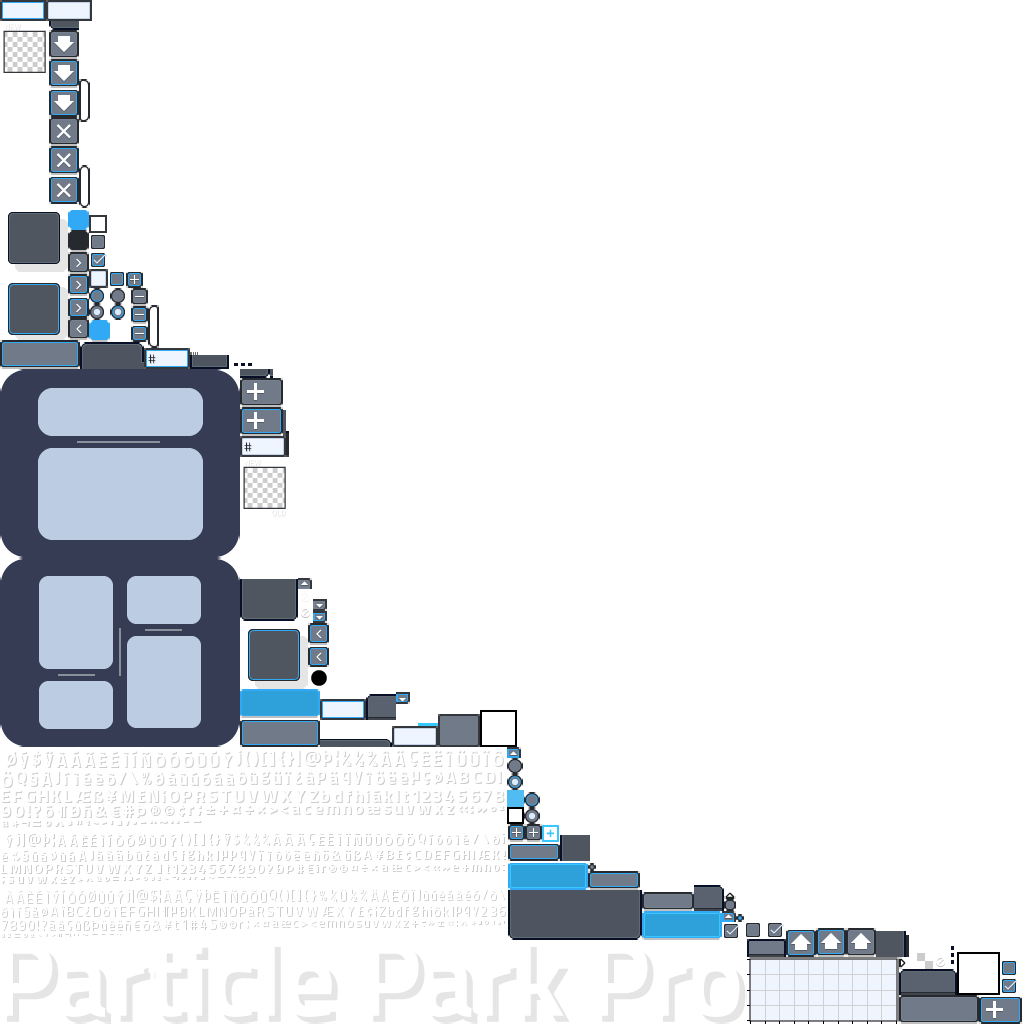
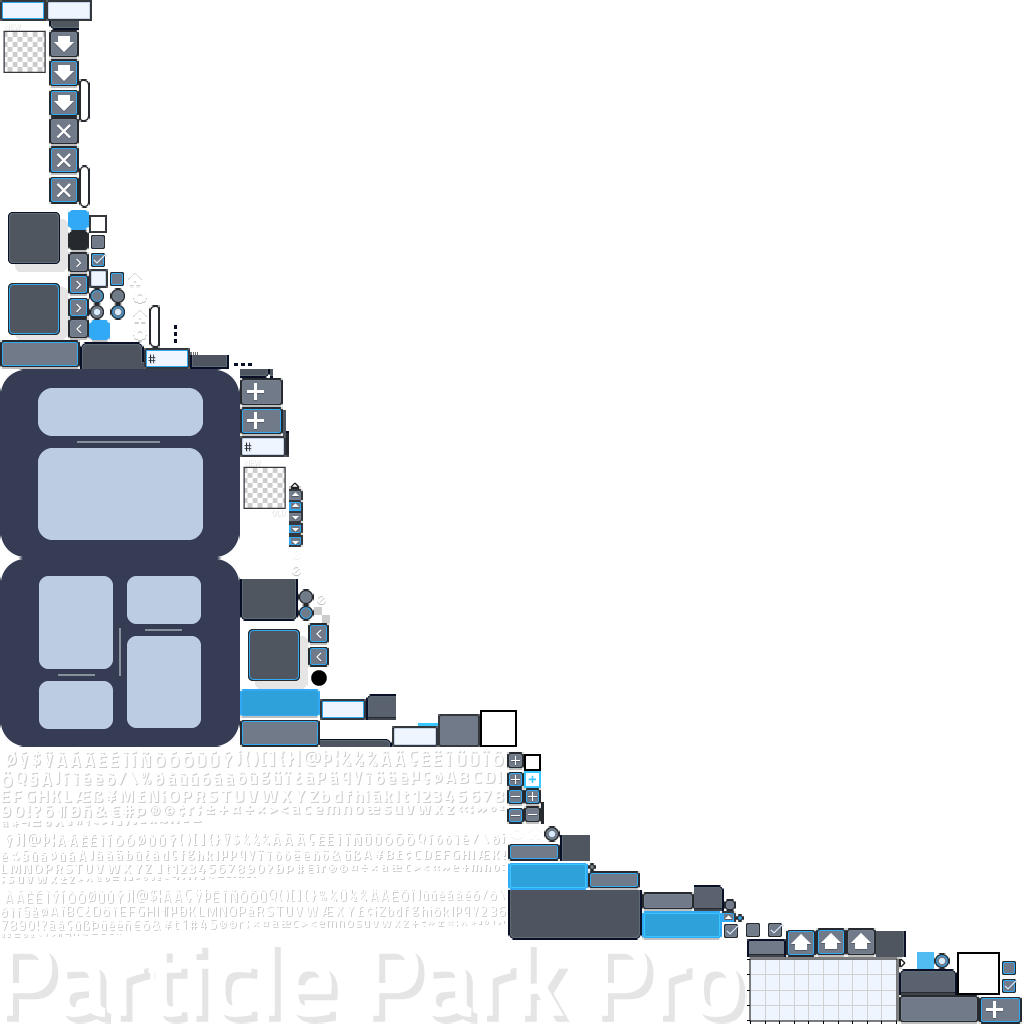
Added more placeholder widgets.

diff --git a/core/src/main/java/com/ray3k/particleparkpro/tables/ClassicTable.java b/core/src/main/java/com/ray3k/particleparkpro/tables/ClassicTable.java
@@ -1,5 +1,6 @@
 package com.ray3k.particleparkpro.tables;
 
+import com.badlogic.gdx.scenes.scene2d.ui.Button;
 import com.badlogic.gdx.scenes.scene2d.ui.Label;
 import com.badlogic.gdx.scenes.scene2d.ui.SplitPane;
 import com.badlogic.gdx.scenes.scene2d.ui.Table;
@@ -9,8 +10,7 @@ import com.ray3k.particleparkpro.widgets.panels.EffectEmittersPanel;
 import com.ray3k.particleparkpro.widgets.panels.EmitterPropertiesPanel;
 import com.ray3k.particleparkpro.widgets.panels.PreviewPanel;
 
-import static com.ray3k.particleparkpro.Core.skin;
-import static com.ray3k.particleparkpro.Core.version;
+import static com.ray3k.particleparkpro.Core.*;
 
 public class ClassicTable extends Table {
     public ClassicTable() {
@@ -33,7 +33,18 @@ public class ClassicTable extends Table {
         horizontalSplitPane.addListener(new ResizeArrowListener(false));
 
         row();
+        var table = new Table();
+        add(table).growX().padTop(5);
+
         var label = new Label(version, skin);
-        add(label).expandX().left().padTop(5);
+        table.add(label);
+
+        var button = new Button(skin, "home");
+        table.add(button).expandX().right();
+        addHandListener(button);
+
+        button = new Button(skin, "settings");
+        table.add(button);
+        addHandListener(button);
     }
 }

diff --git a/core/src/main/java/com/ray3k/particleparkpro/widgets/panels/EmitterPropertiesPanel.java b/core/src/main/java/com/ray3k/particleparkpro/widgets/panels/EmitterPropertiesPanel.java
@@ -21,6 +21,7 @@ public class EmitterPropertiesPanel extends Panel {
         var scrollPane = new ScrollPane(scrollTable, skin);
         scrollPane.setFlickScroll(false);
         bodyTable.add(scrollPane).grow();
+        addScrollFocusListener(scrollPane);
 
         var panel = new Panel();
         scrollTable.add(panel).growX();
@@ -181,13 +182,26 @@ public class EmitterPropertiesPanel extends Panel {
         table.add(button);
         addHandListener(button);
 
-
         scrollTable.row();
         panel = new Panel();
         scrollTable.add(panel).growX();
 
+        panel.tabTable.padRight(4);
+
         panel.tabTable.left();
         label = new Label("Tint", skin, "header");
-        panel.tabTable.add(label);
+        panel.tabTable.add(label).spaceRight(3);
+
+        button = new Button(skin, "close");
+        panel.tabTable.add(button);
+        addHandListener(button);
+
+        image = new Image(skin, "colorbar-bg-10");
+        panel.bodyTable.add(image).growX();
+
+        bodyTable.row();
+        textButton = new TextButton("Add Property", skin, "add");
+        bodyTable.add(textButton).right();
+        addHandListener(textButton);
     }
 }
